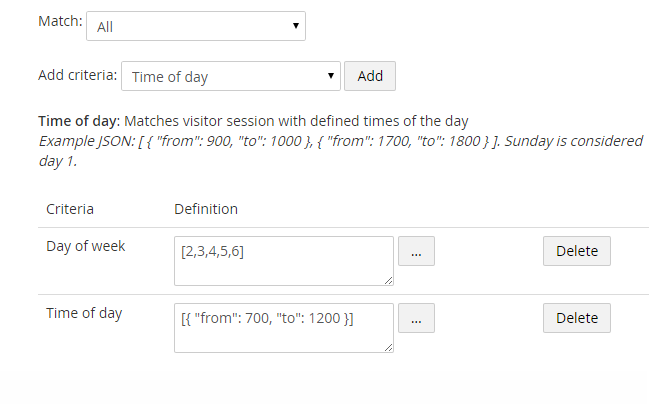
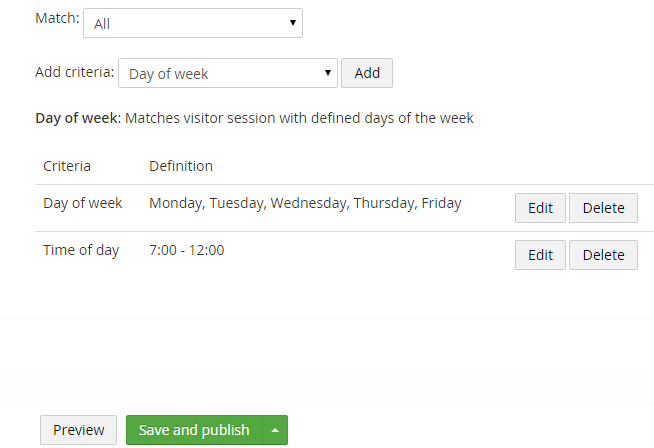
Implemented human readable rendering of personalisation group definition

diff --git a/Zone.UmbracoPersonalisationGroups/PropertyEditors/editor.controller.js b/Zone.UmbracoPersonalisationGroups/PropertyEditors/editor.controller.js
@@ -1,6 +1,18 @@
 angular.module("umbraco")
     .controller("UmbracoPersonalisationGroups.PersonalisationGroupDefinitionController",
-        function ($scope, $http, dialogService, assetsService) {
+        function ($scope, $http, $injector, dialogService) {
+
+            var translators = [];
+
+            function convertToPascalCase(s) {
+                return s.charAt(0).toUpperCase() + s.substr(1);
+            }
+
+            function loadTranslators() {
+                for (var i = 0; i < $scope.availableCriteria.length; i++) {
+                    translators.push($injector.get("UmbracoPersonalisationGroups." + convertToPascalCase($scope.availableCriteria[i].alias) + "TranslatorService"));
+                }
+            }
 
             function initAvailableCriteriaList() {
                 $scope.availableCriteria = [];
@@ -10,7 +22,9 @@
                         if (result.data.length > 0) {
                             $scope.selectedCriteria = result.data[0];
                         }
-                    });
+
+                        loadTranslators();
+                });
             };
 
             function getCriteriaByAlias(alias) {
@@ -21,6 +35,19 @@
                 }
 
                 return null;
+            };
+
+            function getCriteriaIndexByAlias(alias) {
+                var index = 0;
+                for (var i = 0; i < $scope.availableCriteria.length; i++) {
+                    if ($scope.availableCriteria[i].alias === alias) {
+                        return index;
+                    }
+
+                    index++;
+                }
+
+                return -1;
             };
 
             if (!$scope.model.value) {
@@ -61,12 +88,12 @@
                 return "";
             };
 
-            $scope.criteriaHasDefinitionEditorView = function (alias) {
-                var criteria = getCriteriaByAlias(alias);
-                if (criteria) {
-                    return criteria.hasDefinitionEditorView;
+            $scope.getDefinitionTranslation = function (definitionDetail) {
+                var translator = translators[getCriteriaIndexByAlias(definitionDetail.alias)];
+                if (translator) {
+                    return translator.translate(definitionDetail.definition);
                 }
 
-                return false;
+                return "";
             };
         });

diff --git a/Zone.UmbracoPersonalisationGroups/PropertyEditors/editor.html b/Zone.UmbracoPersonalisationGroups/PropertyEditors/editor.html
@@ -15,9 +15,6 @@
     <div>
         <b ng-bind="selectedCriteria.name"></b>: <span ng-bind="selectedCriteria.description"></span>
     </div>
-    <div>
-        <i ng-bind="selectedCriteria.definitionSyntaxDescription"></i>
-    </div>
     <br />
 
     <table class="table table-striped">
@@ -32,10 +29,10 @@
             <tr ng-repeat="detail in model.value.details">
                 <td><span ng-bind="getCriteriaName(detail.alias)"></span></td>
                 <td>
-                    <textarea ng-model="detail.definition"></textarea>
-                    <button type="button" class="btn" ng-if="criteriaHasDefinitionEditorView(detail.alias)" ng-click="editDefinitionDetail(detail)">...</button>
+                    <span ng-bind="getDefinitionTranslation(detail)"></span>
                 </td>
                 <td>
+                    <button type="button" class="btn btn-default" ng-click="editDefinitionDetail(detail)">Edit</button>                    
                     <button type="button" class="btn btn-default" ng-click="delete($index)">Delete</button>
                 </td>
             </tr>

diff --git a/Zone.UmbracoPersonalisationGroups/Criteria/TimeOfDay/definition.translator.js b/Zone.UmbracoPersonalisationGroups/Criteria/TimeOfDay/definition.translator.js
@@ -1,0 +1,27 @@
+angular.module("umbraco.services")
+	.factory("UmbracoPersonalisationGroups.TimeOfDayTranslatorService", function () {
+
+	    function formatTime(time) {
+	        var timeAsString = "" + time;
+	        return timeAsString.substr(0, timeAsString.length - 2) + ":" + timeAsString.substr(timeAsString.length - 2);
+	    }
+
+	    var service = {
+	        translate: function (definition) {
+	            var translation = "";
+	            var selectedTimes = JSON.parse(definition);
+
+	            for (var i = 0; i < selectedTimes.length; i++) {
+	                if (translation.length > 0) {
+	                    translation += ", ";
+	                }
+
+	                translation += formatTime(selectedTimes[i].from) + " - " + formatTime(selectedTimes[i].to);
+	            }
+
+	            return translation;
+	        }
+	    };
+
+	    return service;
+    });

diff --git a/Zone.UmbracoPersonalisationGroups/Criteria/DayOfWeek/definition.translator.js b/Zone.UmbracoPersonalisationGroups/Criteria/DayOfWeek/definition.translator.js
@@ -1,0 +1,23 @@
+angular.module("umbraco.services")
+	.factory("UmbracoPersonalisationGroups.DayOfWeekTranslatorService", function () {
+
+	    var service = {
+	        translate: function (definition) {
+	            var translation = "";
+	            var days = ["Sunday", "Monday", "Tuesday", "Wednesday", "Thursday", "Friday", "Saturday"];
+	            var selectedDays = JSON.parse(definition);
+
+	            for (var i = 0; i < selectedDays.length; i++) {
+	                if (translation.length > 0) {
+	                    translation += ", ";
+	                }
+
+	                translation += days[selectedDays[i] - 1];
+	            }
+
+	            return translation;
+	        }
+	    };
+
+	    return service;
+	});

diff --git a/Zone.UmbracoPersonalisationGroups/PropertyEditors/PersonalisationGroupDefinitionPropertyEditor.cs b/Zone.UmbracoPersonalisationGroups/PropertyEditors/PersonalisationGroupDefinitionPropertyEditor.cs
@@ -9,9 +9,14 @@
     /// Property editor for managing the definition of a personalisation group
     /// </summary>
     [PropertyEditor(Constants.PersonalisationGroupDefinitionPropertyEditorAlias, "Personalisation group definition", "/App_Plugins/UmbracoPersonalisationGroups/Resource/editor.html", ValueType = "JSON")]
+
     [PropertyEditorAsset(ClientDependencyType.Javascript, "/App_Plugins/UmbracoPersonalisationGroups/Resource/editor.controller.js")]
+    
     [PropertyEditorAsset(ClientDependencyType.Javascript, "/App_Plugins/UmbracoPersonalisationGroups/ResourceForCriteria/dayOfWeek/definition.editor.controller.js")]
+    [PropertyEditorAsset(ClientDependencyType.Javascript, "/App_Plugins/UmbracoPersonalisationGroups/ResourceForCriteria/dayOfWeek/definition.translator.js")]
+
     [PropertyEditorAsset(ClientDependencyType.Javascript, "/App_Plugins/UmbracoPersonalisationGroups/ResourceForCriteria/timeOfDay/definition.editor.controller.js")]
+    [PropertyEditorAsset(ClientDependencyType.Javascript, "/App_Plugins/UmbracoPersonalisationGroups/ResourceForCriteria/timeOfDay/definition.translator.js")]
     public class PersonalisationGroupDefinitionPropertyEditor : PropertyEditor
     {
     }

diff --git a/Zone.UmbracoPersonalisationGroups/Criteria/IPersonalisationGroupCriteria.cs b/Zone.UmbracoPersonalisationGroups/Criteria/IPersonalisationGroupCriteria.cs
@@ -21,16 +21,6 @@
         string Description { get; }
 
         /// <summary>
-        /// The description of the syntax used for specifying the definition
-        /// </summary>
-        string DefinitionSyntaxDescription { get; }
-
-        /// <summary>
-        /// Flag for whether a definition editor view is provided
-        /// </summary>
-        bool HasDefinitionEditorView { get; }
-
-        /// <summary>
         /// Checks whether the attributes of the current site visitor match the provided definition
         /// </summary>
         /// <param name="definition">Definition of the criteria to check</param>

diff --git a/Zone.UmbracoPersonalisationGroups/Criteria/TimeOfDay/TimeOfDayPersonalisationGroupCriteria.cs b/Zone.UmbracoPersonalisationGroups/Criteria/TimeOfDay/TimeOfDayPersonalisationGroupCriteria.cs
@@ -26,16 +26,6 @@
             get { return "Matches visitor session with defined times of the day"; }
         }
 
-        public string DefinitionSyntaxDescription
-        {
-            get { return "Example JSON: [ { \"from\": 900, \"to\": 1000 }, { \"from\": 1700, \"to\": 1800 } ].  Sunday is considered day 1."; }
-        }
-
-        public bool HasDefinitionEditorView
-        {
-            get { return true; }
-        }
-
         public bool MatchesVisitor(string definition)
         {
             Mandate.ParameterNotNullOrEmpty(definition, "definition");

diff --git a/Zone.UmbracoPersonalisationGroups/Criteria/DayOfWeek/DayOfWeekPersonalisationGroupCriteria.cs b/Zone.UmbracoPersonalisationGroups/Criteria/DayOfWeek/DayOfWeekPersonalisationGroupCriteria.cs
@@ -25,16 +25,6 @@
             get { return "Matches visitor session with defined days of the week"; }
         }
 
-        public string DefinitionSyntaxDescription
-        {
-            get { return "Example JSON: [ 1, 2, 6, 7 ].  Sunday is considered day 1."; }
-        }
-
-        public bool HasDefinitionEditorView
-        {
-            get { return true; }
-        }
-
         public bool MatchesVisitor(string definition)
         {
             Mandate.ParameterNotNullOrEmpty(definition, "definition");

diff --git a/ReadMe.md b/ReadMe.md
@@ -99,7 +99,11 @@ It then makes these criteria available to application logic that needs to create
 
 ### Angular views and controllers
 
-The primary view and controller for the property editor are **editor.html** and **editor.controller.js** respectively.  In addition to these, each criteria has it's own view and controller that provide a user friendly means of configuring the definitions, named **definition.editor.html** and **definition.editor.controller.js** which are loaded via a call to the Umbraco dialogService.  All are provided as embedded resources.
+The primary view and controller for the property editor are **editor.html** and **editor.controller.js** respectively.
+
+In addition to these, each criteria has it's own view and controller that provide a user friendly means of configuring the definitions, named **definition.editor.html** and **definition.editor.controller.js** which are loaded via a call to the Umbraco dialogService.  All are provided as embedded resources.
+
+Each criteria also has an angular service named **definition.translator.js** responsible for translating the JSON syntax into something more human readable.  So again for example the **DayOfWeekPersonalisationGroupCriteria** will render "Sunday, Tuesday, Thursday" from [1, 3, 5].
 
 ### PublishedContentExtensions
 
@@ -113,7 +117,7 @@ The primary view and controller for the property editor are **editor.html** and 
 
 ## How to extend it
 
-The idea moving forward is that not every criteria will necessarily be provided by the core package - it should be extensible by developers looking to implement something that might be quite specific to their application.  This should be mostly straightforward.  Due to the fact that the criteria that are made available come from a scan of all loaded assemblies, it should only be necessary to provide a dll with an implementation of **IPersonalisationGroupCriteria** along with the definition editor angular view and controller - **definition.editor.html** and **definition.editor.controller.js** - as embedded resources.
+The idea moving forward is that not every criteria will necessarily be provided by the core package - it should be extensible by developers looking to implement something that might be quite specific to their application.  This should be mostly straightforward.  Due to the fact that the criteria that are made available come from a scan of all loaded assemblies, it should only be necessary to provide a dll with an implementation of **IPersonalisationGroupCriteria** along with the definition editor angular view, controller and translation service - **definition.editor.html**, **definition.editor.controller.js** and **definition.definition.translator.js** respectively - as embedded resources.
 
 There's one gotcha though, which is that it's not (I believe) possible to load an angular controller into Umbraco once the back-office application itself has bootstrapped.  The only way to do this is via a property editor, specifically it's **[PropertyEditorAsset]** attribute which is detailed [here](http://issues.umbraco.org/issue/U4-3712).
 
@@ -125,6 +129,7 @@ So in order to have the definition angular controller loaded, it's necessary to 
     /// </summary>
     [PropertyEditor("personalisationGroupDefinitionDayOfWeek", "Visitor group definition (day of week - don't use)")]
     [PropertyEditorAsset(ClientDependencyType.Javascript, "/App_Plugins/UmbracoPersonalisationGroups/ResourceForCriteria/dayOfWeek/definition.editor.controller.js")]
+	[PropertyEditorAsset(ClientDependencyType.Javascript, "/App_Plugins/UmbracoPersonalisationGroups/ResourceForCriteria/dayOfWeek/definition.translator.js")]
     public class DummyDefinitionPropertyEditor : PropertyEditor
     {
     }
@@ -136,6 +141,5 @@ It doesn't need to be used (i.e. there's no need to create a data type from it).
 The following tasks are planned to continue development of this package:
 
 - Implementation of further criteria, including cookie value, session key value and geographical
-- Find a nicer way of presenting the definition, so hiding the JSON and displaying as a human readable translation
 - Release as a package on our.umbraco.org
 
